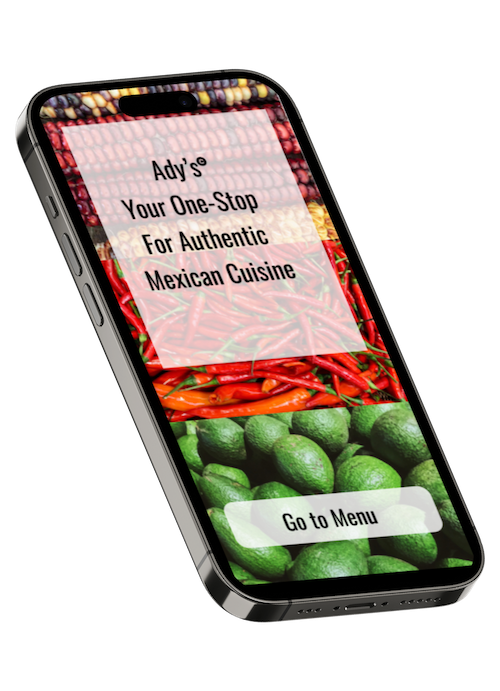
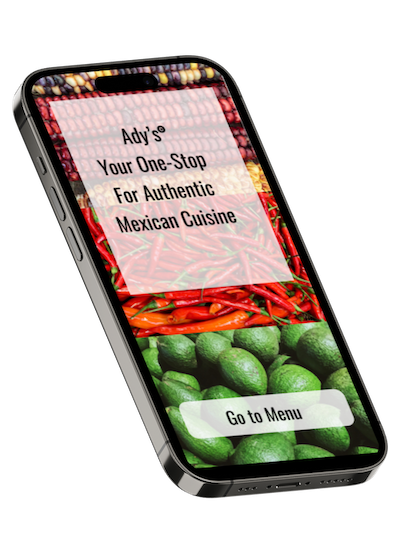
iphone img improv

diff --git a/src/components/UIUX.jsx b/src/components/UIUX.jsx
@@ -31,15 +31,19 @@ const Uiux = () => {
                       className='xs:text-2 font-bold flex text-black cursor-pointer 
                       hover:scale-90 duration-300'>
 
-                    <Link to={ Casestudy } >Open Case Study </Link> 
+                    <Link to={ Casestudy }>Open Case Study </Link> 
                     <span className='flex align-middle mx-1 p-1'> <FaLongArrowAltRight /></span>         
                     </h1>       
-                  </div>
-                           
-                  <div className='hidden md:flex justify-between items-center align-middle
-                  h-5  ml-[550px] mb-[150px] md:w-5/6 my-auto'>
-                      <img src={iphone} alt="an iphone with landing page"/>
-                  </div>                    
+
+                    <div className='cursor-pointer'>
+                      <a href='/casestudy'>
+                        <img src={iphone} alt="an iphone with landing page"
+                        className='sm:flex flex-row justify-between items-center align-middle
+                        mx-auto my-auto w-1/3 pt-10 md:w-1/3 
+                        '/>
+                      </a>
+                    </div>
+                  </div>               
             </div>                  
         </div>
     </div>
@@ -47,3 +51,4 @@ const Uiux = () => {
 }
 
 export default Uiux
+

diff --git a/src/components/NavBar.jsx b/src/components/NavBar.jsx
@@ -64,7 +64,7 @@ const NavBar = () => {
                 className='text-3xl font-signature ml-3'
                 >
                     
-                        <a href={link} smooth duration={500}>immanuel.</a>    
+                        <a href={link} smooth='true' duration={500}>immanuel.</a>    
                          
                 </h1>
                 </Link> 
@@ -80,7 +80,7 @@ const NavBar = () => {
                  duration-200'
                  >
                    
-                     <a href={href} smooth duration={500}>{link}</a>
+                     <a href={href} smooth='true' duration={500}>{link}</a>
                 
                 </li>
                 </Link>
@@ -102,7 +102,7 @@ const NavBar = () => {
                      className='px-4 cursor-pointer py-5 text-3xl'
                      >
                        <Link onClick={() => setNav(!nav)}
-                       to={link} smooth duration={500}>{link}</Link>
+                       to={link} smooth='true' duration={500}>{link}</Link>
                     </li>
                 ))} 
             </ul>

diff --git a/src/components/Layout.js b/src/components/Layout.js
@@ -9,7 +9,7 @@ import Experience from "./Experience";
 import Contact from "./Contact";
 import SocialLinks from './SocialLinks';
 import UIUX from './UIUX';
-import Casestudy from './Casestudy';
+
 
 
 const Layout = () => {
@@ -22,7 +22,7 @@ const Layout = () => {
         <Experience />
         <SocialLinks/>
         <UIUX />
-        <Casestudy/>
+       
         <Contact/>   
         
     </>

diff --git a/src/components/Home.jsx b/src/components/Home.jsx
@@ -1,7 +1,7 @@
 import React from 'react'
 import MyPhoto from '../assets/mainpage.png'
 import CV from '../assets/CV.pdf'
-//import {Link} from 'react-router-dom'
+
 
 const Home = () => {
   return (

diff --git a/src/components/Casestudy.jsx b/src/components/Casestudy.jsx
@@ -3,7 +3,7 @@ import React from 'react'
 const Casestudy = () => {
   return (
     <div name='casestudy'>
-      <p></p>
+      <p>kkkkkkkkkkk</p>
     </div>
   )
 }
